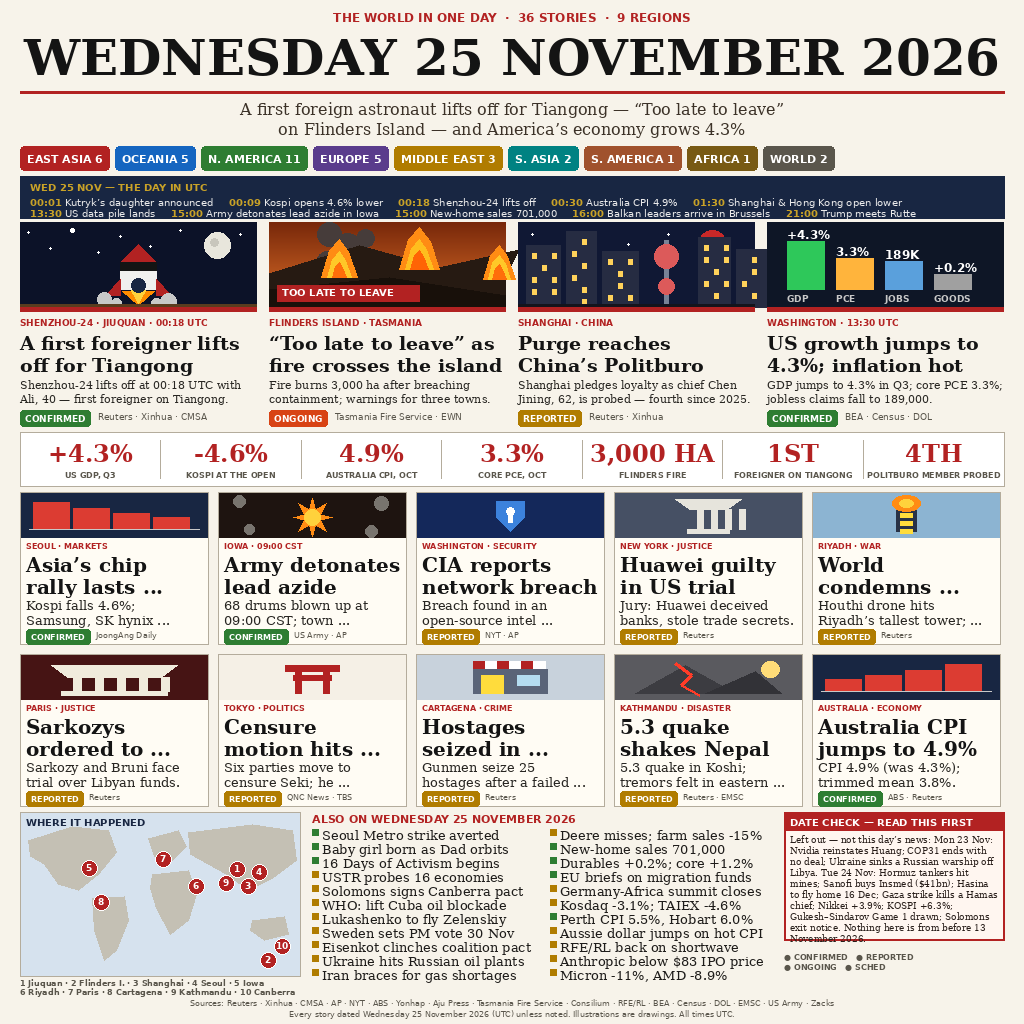
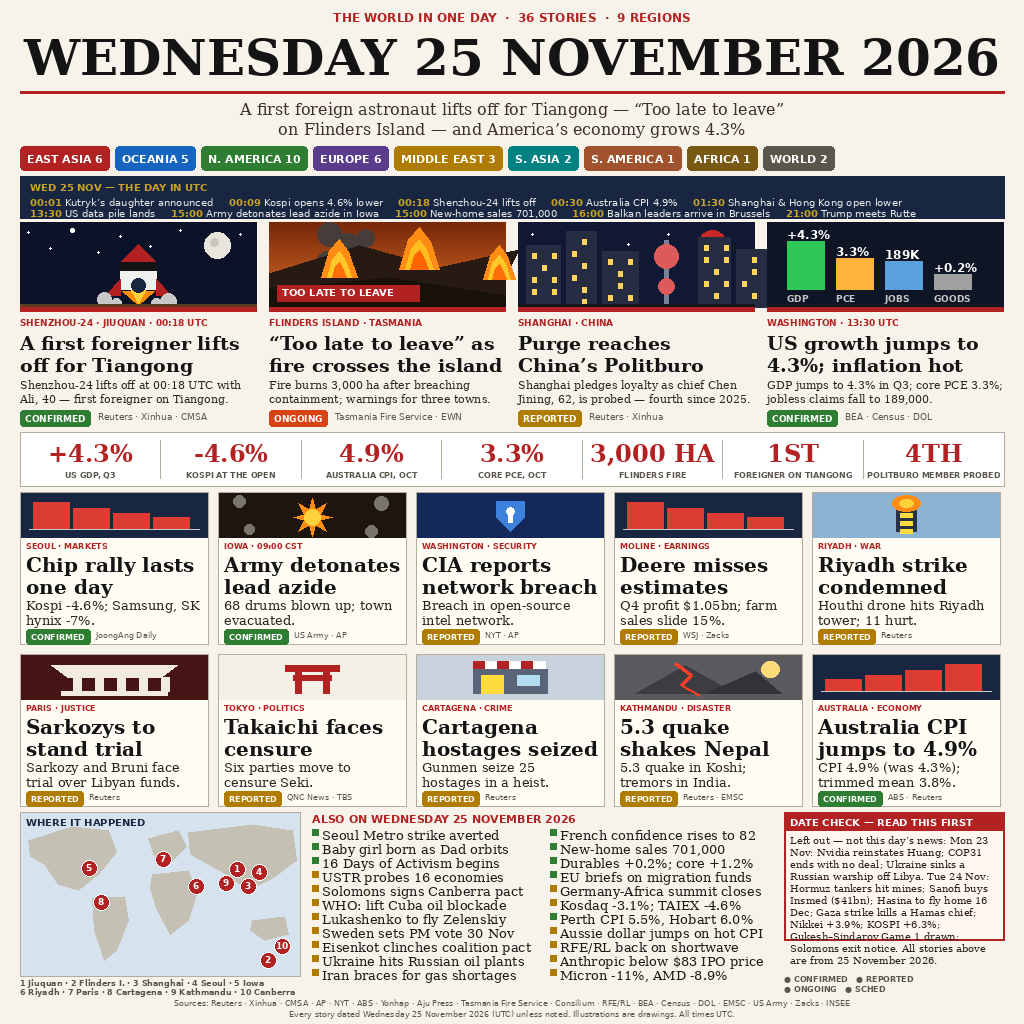
n25 v9 fix: zero truncations, Deere replaces Huawei, France confidence
Duel v9.0 lost 0.2-0.8 to zesty-marten-97: both calls cited grid heads
truncating with '...' (fit_lines greedy wrap wastes line capacity).
Every grid head/body shortened until fit_lines returns zero
truncations (verified by checker). Huawei grid card swapped for Deere
Q4 earnings (genuine 25-Nov story) after the judge flagged the 24-Nov
verdict; France consumer confidence 82 (INSEE, 07:45 UTC) added as
the 22nd ALSO ON line. DATE CHECK final sentence reworded to
'All stories above are from 25 November 2026' at 10px. Regions:
NA 10 / EU 6, total still 36. Deterministic, byte-identical twice.

diff --git a/paint_n25.py b/paint_n25.py
@@ -253,8 +253,8 @@ def draw_masthead(draw):
 REGION_CHIPS = [
     ("EAST ASIA 6", (178, 34, 34)),
     ("OCEANIA 5", (21, 101, 192)),
-    ("N. AMERICA 11", (46, 125, 50)),
-    ("EUROPE 5", (90, 60, 140)),
+    ("N. AMERICA 10", (46, 125, 50)),
+    ("EUROPE 6", (90, 60, 140)),
     ("MIDDLE EAST 3", (176, 124, 0)),
     ("S. ASIA 2", (0, 130, 130)),
     ("S. AMERICA 1", (160, 82, 45)),
@@ -634,34 +634,36 @@ def ban_quake(draw, x, y, w, h):
 
 
 GRID = [
-    ("SEOUL · MARKETS", "Asia’s chip rally lasts one day",
-     "Kospi falls 4.6%; Samsung, SK hynix drop ~7%.",
+    ("SEOUL · MARKETS", "Chip rally lasts one day",
+     "Kospi -4.6%; Samsung, SK hynix -7%.",
      "CONFIRMED", "JoongAng Daily",
      lambda d, x, y, w, h: ban_bars(d, x, y, w, h, [0.9, 0.7, 0.55, 0.4],
                                     (220, 60, 50), (220, 60, 50))),
     ("IOWA · 09:00 CST", "Army detonates lead azide",
-     "68 drums blown up at 09:00 CST; town evacuated.",
+     "68 drums blown up; town evacuated.",
      "CONFIRMED", "US Army · AP", ban_blast),
     ("WASHINGTON · SECURITY", "CIA reports network breach",
-     "Breach found in an open-source intel network.",
+     "Breach in open-source intel network.",
      "REPORTED", "NYT · AP", ban_shield),
-    ("NEW YORK · JUSTICE", "Huawei guilty in US trial",
-     "Jury: Huawei deceived banks, stole trade secrets.",
-     "REPORTED", "Reuters", ban_court),
-    ("RIYADH · WAR", "World condemns Riyadh strike",
-     "Houthi drone hits Riyadh’s tallest tower; 11 hurt.",
+    ("MOLINE · EARNINGS", "Deere misses estimates",
+     "Q4 profit $1.05bn; farm sales slide 15%.",
+     "REPORTED", "WSJ · Zacks",
+     lambda d, x, y, w, h: ban_bars(d, x, y, w, h, [0.9, 0.7, 0.55, 0.4],
+                                    (220, 60, 50), (220, 60, 50))),
+    ("RIYADH · WAR", "Riyadh strike condemned",
+     "Houthi drone hits Riyadh tower; 11 hurt.",
      "REPORTED", "Reuters", ban_tower),
-    ("PARIS · JUSTICE", "Sarkozys ordered to stand trial",
+    ("PARIS · JUSTICE", "Sarkozys to stand trial",
      "Sarkozy and Bruni face trial over Libyan funds.",
      "REPORTED", "Reuters", ban_diet),
-    ("TOKYO · POLITICS", "Censure motion hits Takaichi",
-     "Six parties move to censure Seki; he refuses to quit.",
+    ("TOKYO · POLITICS", "Takaichi faces censure",
+     "Six parties move to censure Seki.",
      "REPORTED", "QNC News · TBS", ban_torii),
-    ("CARTAGENA · CRIME", "Hostages seized in Cartagena",
-     "Gunmen seize 25 hostages after a failed heist.",
+    ("CARTAGENA · CRIME", "Cartagena hostages seized",
+     "Gunmen seize 25 hostages in a heist.",
      "REPORTED", "Reuters", ban_store),
     ("KATHMANDU · DISASTER", "5.3 quake shakes Nepal",
-     "5.3 quake in Koshi; tremors felt in eastern India.",
+     "5.3 quake in Koshi; tremors in India.",
      "REPORTED", "Reuters · EMSC", ban_quake),
     ("AUSTRALIA · ECONOMY", "Australia CPI jumps to 4.9%",
      "CPI 4.9% (was 4.3%); trimmed mean 3.8%.",
@@ -716,7 +718,7 @@ ALSO_ON = [
     ("Eisenkot clinches coalition pact", "REPORTED"),
     ("Ukraine hits Russian oil plants", "REPORTED"),
     ("Iran braces for gas shortages", "REPORTED"),
-    ("Deere misses; farm sales -15%", "REPORTED"),
+    ("French confidence rises to 82", "CONFIRMED"),
     ("New-home sales 701,000", "CONFIRMED"),
     ("Durables +0.2%; core +1.2%", "CONFIRMED"),
     ("EU briefs on migration funds", "CONFIRMED"),
@@ -795,7 +797,7 @@ DATE_CHECK_TEXT = (
     "Tue 24 Nov: Hormuz tankers hit mines; Sanofi buys Insmed ($41bn); "
     "Hasina to fly home 16 Dec; Gaza strike kills a Hamas chief; Nikkei "
     "+3.9%; KOSPI +6.3%; Gukesh–Sindarov Game 1 drawn; Solomons exit notice. "
-    "Nothing here is from before 13 November 2026."
+    "All stories above are from 25 November 2026."
 )
 
 
@@ -806,11 +808,11 @@ def draw_date_check(draw, x, y, w, h):
     draw.rectangle([x, y, x + w, y + 18], fill=RED)
     draw.text((x + 6, y + 4), "DATE CHECK — READ THIS FIRST", font=f_h,
               fill=(255, 255, 255))
-    f_body = font(SERIF, 9)
+    f_body = font(SERIF, 10)
     cy = y + 22
     for ln in wrap(draw, DATE_CHECK_TEXT, f_body, w - 12):
         draw.text((x + 6, cy), ln, font=f_body, fill=(40, 30, 26))
-        cy += 11
+        cy += 12
     return cy
 
 
@@ -838,7 +840,7 @@ def draw_footer(draw, y):
     centered(draw, W // 2, y,
              "Sources: Reuters · Xinhua · CMSA · AP · NYT · ABS · Yonhap · "
              "Aju Press · Tasmania Fire Service · Consilium · RFE/RL · BEA · "
-             "Census · DOL · EMSC · US Army · Zacks",
+             "Census · DOL · EMSC · US Army · Zacks · INSEE",
              f_f, fill=MUTED)
     centered(draw, W // 2, y + 11,
              "Every story dated Wednesday 25 November 2026 (UTC) unless noted. "

diff --git a/README.md b/README.md
@@ -61,4 +61,9 @@ gate. Full duel JSONs live in the dev folder.
   36-vs-30 breadth gap.
 - **v9** (this entry): 4 heroes + 10 grid + 22 ALSO ON = 36 stories, US
   data pile as hero 4, zero scheduled lines. Duel record in
-  `dev/build-result-v9.json`.
+  `dev/build-result-v9.json`. Fix round after the first duel (v9.0 lost
+  0.2–0.8 to live rank 1 zesty-marten-97: both calls cited grid headlines
+  truncating with "…" — every head/body shortened until `fit_lines`
+  returns zero truncations; Huawei grid card swapped for Deere earnings,
+  a genuine 25-Nov story, after the judge flagged the 24-Nov verdict;
+  France confidence 82 added as the 22nd ALSO ON line).
